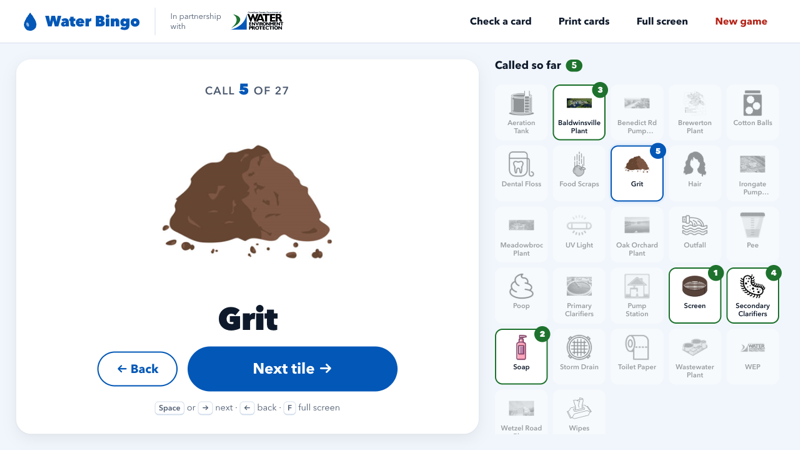
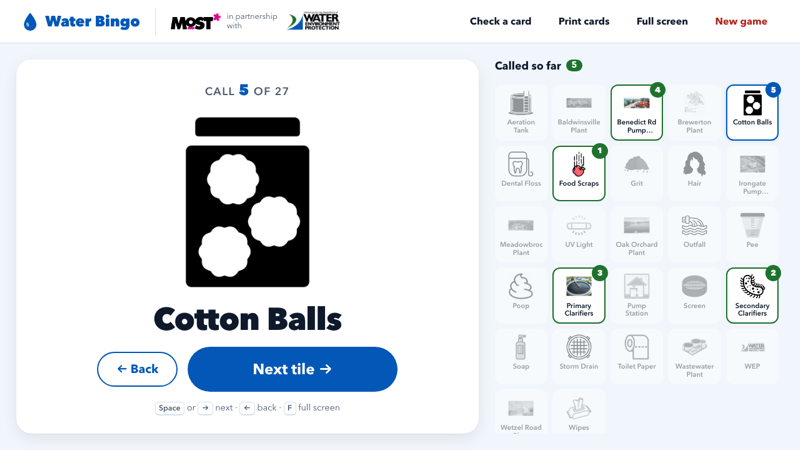
Brand Water Bingo as a MOST program in partnership with WEP
The header now reads "MOST in partnership with WEP", the start screen
shows both logos, and printed cards carry the MOST logo, so the app no
longer reads as a WEP product. The card footer is "Card ID: <id>" with
the ID in MOST pink, and "Five in a row wins!" moves under FREE in the
centre square. The PDF and HTML cards stay in sync.

diff --git a/src/lib/cardsPdf.ts b/src/lib/cardsPdf.ts
@@ -1,4 +1,5 @@
 import { PDFDocument, StandardFonts, rgb, type PDFFont, type PDFImage, type PDFPage } from "pdf-lib";
+import mostLogo from "../assets/brand/most-logo.png";
 import { FREE_INDEX, GRID, type CardCell } from "./cards";
 import { cardRect, paginate, sheetSpec, slotRects, wrapText, type PerSheet, type Rect } from "./sheetLayout";
 
@@ -32,29 +33,29 @@ const hex = (h: string) =>
 const BLUE = hex("#0257b7");
 const BLUE_SOFT = hex("#e3eefb");
 const GREEN = hex("#1e722d");
+const PINK = hex("#df068c");
 const INK = hex("#0e1a2b");
-const MUTED = hex("#4d5b70");
 const CELL_LINE = hex("#9fb3cc");
 const CUT_LINE = hex("#b8c4d4");
 
 const DROP_PATH = "M32 4C32 4 12 28 12 42a20 20 0 0 0 40 0C52 28 32 4 32 4z";
-const SUBTITLE = "ONONDAGA COUNTY DEPARTMENT OF WATER ENVIRONMENT PROTECTION";
-export const FOOTER = "Mark each picture when it's called. Five in a row wins!";
-/** Footer font sizes in `u`; the instructions and the card ID share one line. */
-export const FOOTER_SIZE = { text: 2.1, id: 3 };
+const SUBTITLE = "IN PARTNERSHIP WITH ONONDAGA COUNTY WATER ENVIRONMENT PROTECTION";
+/** Footer, in `u`: card ID left, MOST logo right. */
+export const FOOTER = { idLabel: "Card ID: ", idSize: 3, logoHeight: 3.6, gap: 1.5 };
+/** Caption under FREE in the centre square, in bold at `size` u. */
+export const FREE_CAPTION = { text: "Five in a row wins!", size: 1.7 };
+export const MOST_LOGO_ASPECT = 2081 / 672; // most-logo.png
 
 const defaultLoad = async (url: string) => (await fetch(url)).arrayBuffer();
 
 export async function buildCardsPdf({ cards, perSheet, getTile, loadImage = defaultLoad }: BuildOptions) {
   const doc = await PDFDocument.create();
   doc.setTitle(`Water Bingo cards (${cards.length})`);
+  doc.setAuthor("Museum of Science & Technology (MOST)");
   doc.setSubject("In partnership with Onondaga County Department of Water Environment Protection");
   doc.setCreator("Water Bingo");
 
-  const fonts = {
-    regular: await doc.embedFont(StandardFonts.Helvetica),
-    bold: await doc.embedFont(StandardFonts.HelveticaBold),
-  };
+  const bold = await doc.embedFont(StandardFonts.HelveticaBold);
 
   // Embed each tile image once; every card reuses it.
   const ids = new Set(cards.flatMap((c) => c.cells.filter((x): x is string => x !== null)));
@@ -66,20 +67,23 @@ export async function buildCardsPdf({ cards, perSheet, getTile, loadImage = defa
     }),
   );
 
+  const logo = await doc.embedPng(await loadImage(mostLogo));
+
   const spec = sheetSpec(perSheet);
   const slots = slotRects(perSheet);
   for (const pageCards of paginate(cards, perSheet)) {
     const page = doc.addPage([spec.width, spec.height]);
     drawCutLines(page, perSheet);
-    pageCards.forEach((card, i) => drawCard(page, cardRect(slots[i]!), card, { fonts, images, getTile }));
+    pageCards.forEach((card, i) => drawCard(page, cardRect(slots[i]!), card, { bold, images, logo, getTile }));
   }
 
   return doc.save();
 }
 
 interface DrawContext {
-  fonts: { regular: PDFFont; bold: PDFFont };
+  bold: PDFFont;
   images: Map<string, PDFImage>;
+  logo: PDFImage;
   getTile: (id: string) => PdfTile;
 }
 
@@ -96,7 +100,7 @@ function drawCard(page: PDFPage, box: Rect, card: PdfCard, ctx: DrawContext) {
   const u = box.w / 100;
   const X = (x: number) => box.x + x * u;
   const Y = (y: number) => pageH - (box.y + y * u); // top-down → PDF bottom-up
-  const { regular, bold } = ctx.fonts;
+  const { bold } = ctx;
 
   // Header: drop + title, centred as one group.
   const title = "WATER BINGO";
@@ -128,11 +132,15 @@ function drawCard(page: PDFPage, box: Rect, card: PdfCard, ctx: DrawContext) {
   }
   page.drawRectangle({ x: X(0), y: Y(top + 100), width: 100 * u, height: 100 * u, borderColor: BLUE, borderWidth: 0.7 * u });
 
-  // Footer.
-  page.drawText(FOOTER, { x: X(0), y: Y(118.4), size: FOOTER_SIZE.text * u, font: regular, color: MUTED });
-  const num = `Card ${card.id}`;
-  const numSize = FOOTER_SIZE.id * u;
-  page.drawText(num, { x: X(100) - bold.widthOfTextAtSize(num, numSize), y: Y(118.6), size: numSize, font: bold, color: INK });
+  // Footer, centred on y = 117.5u: "Card ID: <id>" left (ID in pink), MOST logo right.
+  const idSize = FOOTER.idSize;
+  const labelW = bold.widthOfTextAtSize(FOOTER.idLabel, idSize);
+  page.drawText(FOOTER.idLabel, { x: X(0), y: Y(118.6), size: idSize * u, font: bold, color: INK });
+  page.drawText(card.id, { x: X(labelW), y: Y(118.6), size: idSize * u, font: bold, color: PINK });
+
+  const logoH = FOOTER.logoHeight;
+  const logoW = logoH * MOST_LOGO_ASPECT;
+  page.drawImage(ctx.logo, { x: X(100 - logoW), y: Y(117.5 + logoH / 2), width: logoW * u, height: logoH * u });
 }
 
 type Coord = (v: number) => number;
@@ -180,9 +188,12 @@ function drawTile(
 
 function drawFree(page: PDFPage, X: Coord, Y: Coord, u: number, cx: number, cy: number, cell: number, font: PDFFont) {
   page.drawRectangle({ x: X(cx), y: Y(cy + cell), width: cell * u, height: cell * u, color: BLUE_SOFT });
-  const drop = 9 * u;
-  page.drawSvgPath(DROP_PATH, { x: X(cx + cell / 2) - drop / 2, y: Y(cy + 3), scale: drop / 64, color: BLUE });
+  const drop = 7.5 * u;
+  page.drawSvgPath(DROP_PATH, { x: X(cx + cell / 2) - drop / 2, y: Y(cy + 1.8), scale: drop / 64, color: BLUE });
   const size = 3.4 * u;
   const w = font.widthOfTextAtSize("FREE", size);
-  page.drawText("FREE", { x: X(cx + cell / 2) - w / 2, y: Y(cy + cell - 2.4), size, font, color: BLUE });
+  page.drawText("FREE", { x: X(cx + cell / 2) - w / 2, y: Y(cy + 13.4), size, font, color: BLUE });
+  const capSize = FREE_CAPTION.size * u;
+  const capW = font.widthOfTextAtSize(FREE_CAPTION.text, capSize);
+  page.drawText(FREE_CAPTION.text, { x: X(cx + cell / 2) - capW / 2, y: Y(cy + 17.4), size: capSize, font, color: BLUE });
 }

diff --git a/src/lib/cardsPdf.test.ts b/src/lib/cardsPdf.test.ts
@@ -7,7 +7,7 @@ import { describe, expect, it } from "vitest";
 import { TILE_IDS, getTile } from "../data/tiles";
 import { ADJECTIVES, NOUNS, randomCardIds } from "./cardIds";
 import { cardLayout } from "./cards";
-import { FOOTER, FOOTER_SIZE, buildCardsPdf } from "./cardsPdf";
+import { FOOTER, FREE_CAPTION, MOST_LOGO_ASPECT, buildCardsPdf } from "./cardsPdf";
 import { mulberry32 } from "./random";
 import type { PerSheet } from "./sheetLayout";
 
@@ -31,18 +31,17 @@ describe("buildCardsPdf", () => {
     expect(doc.getTitle()).toBe(`Water Bingo cards (${count})`);
   });
 
-  it("fits the widest possible card ID beside the footer text", async () => {
+  it("fits the widest possible card ID beside the MOST logo, and the caption in the FREE square", async () => {
     const doc = await PDFDocument.create();
-    const [regular, bold] = await Promise.all([
-      doc.embedFont(StandardFonts.Helvetica),
-      doc.embedFont(StandardFonts.HelveticaBold),
-    ]);
+    const bold = await doc.embedFont(StandardFonts.HelveticaBold);
     const widest = (list: readonly string[]) =>
       [...list].sort((a, b) => bold.widthOfTextAtSize(b, 1) - bold.widthOfTextAtSize(a, 1));
     const [a1, a2] = widest(ADJECTIVES);
-    const id = `Card ${a1}-${a2}-${widest(NOUNS)[0]}`;
-    // Widths in u (1% of card width); 2u gap between the two, as in the CSS.
-    const used = regular.widthOfTextAtSize(FOOTER, FOOTER_SIZE.text) + 2 + bold.widthOfTextAtSize(id, FOOTER_SIZE.id);
-    expect(used).toBeLessThan(98);
+    const id = `${FOOTER.idLabel}${a1}-${a2}-${widest(NOUNS)[0]}`;
+    // Widths in u (1% of card width): ID, gap, logo — as in the CSS.
+    const used = bold.widthOfTextAtSize(id, FOOTER.idSize) + FOOTER.gap + FOOTER.logoHeight * MOST_LOGO_ASPECT;
+    expect(used).toBeLessThan(96);
+    // A grid cell is 20u with 1.2u padding each side.
+    expect(bold.widthOfTextAtSize(FREE_CAPTION.text, FREE_CAPTION.size)).toBeLessThan(17.6);
   });
 });

diff --git a/src/pages/CallerPage.tsx b/src/pages/CallerPage.tsx
@@ -1,5 +1,6 @@
 import { useEffect, useMemo, useState } from "react";
 import { Link } from "react-router";
+import mostLogo from "../assets/brand/most-logo.png";
 import wepLogo from "../assets/brand/wep-logo.png";
 import CardChecker from "../components/CardChecker";
 import Dialog from "../components/Dialog";
@@ -203,22 +204,20 @@ function StartScreen({ onStart }: { onStart: () => void }) {
         </div>
         <ol className="steps">
           <li>
-            <strong>Print cards.</strong> Each card has a number and its own mix of {CELLS - 1} pictures.
+            <strong>Print cards.</strong> Each card has its own word ID and mix of {CELLS - 1} pictures.
           </li>
           <li>
             <strong>Call tiles.</strong> Press <kbd>Space</kbd> to show the next picture and read its name aloud.
           </li>
           <li>
-            <strong>Check winners.</strong> Five in a row wins — enter their card number to confirm.
+            <strong>Check winners.</strong> Five in a row wins — enter their card ID to confirm.
           </li>
         </ol>
-        <section className="partner-band" aria-label="Partnership">
+        {/* Decorative: the header already names both organisations. */}
+        <div className="partner-band">
+          <img className="partner-band-most" src={mostLogo} alt="" />
           <img src={wepLogo} alt="" />
-          <p>
-            Presented in partnership with <strong>Onondaga County Water Environment Protection (WEP)</strong> — the
-            team that runs the treatment plants and pump stations you’ll see on the tiles.
-          </p>
-        </section>
+        </div>
       </main>
     </div>
   );

diff --git a/src/components/BingoCard.tsx b/src/components/BingoCard.tsx
@@ -1,3 +1,4 @@
+import mostLogo from "../assets/brand/most-logo.png";
 import { FREE_INDEX, isMarked, type CardCell } from "../lib/cards";
 import { getTile } from "../data/tiles";
 import WaterDrop from "./WaterDrop";
@@ -19,7 +20,7 @@ export default function BingoCard({ cardId, cells, called, winning, variant = "p
           <h2>
             <WaterDrop className="bingo-card-drop" /> Water Bingo
           </h2>
-          <p>Onondaga County Department of Water Environment Protection</p>
+          <p>In partnership with Onondaga County Water Environment Protection</p>
         </header>
       )}
       <ol className="bingo-grid">
@@ -38,6 +39,7 @@ export default function BingoCard({ cardId, cells, called, winning, variant = "p
               <li key="free" className={classes}>
                 <WaterDrop className="free-drop" />
                 <span className="bingo-cell-label">FREE</span>
+                {variant === "print" && <span className="bingo-cell-caption">Five in a row wins!</span>}
               </li>
             );
           }
@@ -52,8 +54,10 @@ export default function BingoCard({ cardId, cells, called, winning, variant = "p
       </ol>
       {variant === "print" && (
         <footer className="bingo-card-foot">
-          <span>Mark each picture when it’s called. Five in a row wins!</span>
-          <strong>Card {cardId}</strong>
+          <strong>
+            Card ID: <span className="card-id">{cardId}</span>
+          </strong>
+          <img className="bingo-card-most" src={mostLogo} alt="Museum of Science & Technology (MOST)" />
         </footer>
       )}
     </article>

diff --git a/src/components/SiteHeader.tsx b/src/components/SiteHeader.tsx
@@ -1,5 +1,6 @@
 import type { ReactNode } from "react";
 import { Link } from "react-router";
+import mostLogo from "../assets/brand/most-logo.png";
 import wepLogo from "../assets/brand/wep-logo.png";
 import WaterDrop from "./WaterDrop";
 
@@ -11,7 +12,8 @@ export default function SiteHeader({ children }: { children?: ReactNode }) {
         <span className="brand-name">Water Bingo</span>
       </Link>
       <div className="partner">
-        <span className="partner-label">In partnership with</span>
+        <img className="partner-most" src={mostLogo} alt="Museum of Science & Technology (MOST)" />
+        <span className="partner-label">in partnership with</span>
         <img src={wepLogo} alt="Onondaga County Department of Water Environment Protection" />
       </div>
       {children && <nav className="toolbar">{children}</nav>}

diff --git a/src/pages/cards.css b/src/pages/cards.css
@@ -224,19 +224,31 @@
   font-size: calc(var(--u) * 3.4);
   font-weight: 800;
 }
+.bingo-cell-caption {
+  font-size: calc(var(--u) * 1.7);
+  font-weight: 700;
+  line-height: 1;
+  white-space: nowrap;
+}
+/* Card ID left, MOST logo right. Mirrors cardsPdf.ts. */
 .bingo-card-foot {
   display: flex;
   align-items: center;
   justify-content: space-between;
-  gap: calc(var(--u) * 2);
+  gap: calc(var(--u) * 1.5);
   flex: 1;
-  font-size: calc(var(--u) * 2.1);
-  color: var(--muted);
+}
+.bingo-card-most {
+  height: calc(var(--u) * 3.6);
+  width: auto;
 }
 .bingo-card-foot strong {
   font-size: calc(var(--u) * 3);
   color: var(--ink);
   white-space: nowrap;
+}
+.bingo-card-foot .card-id {
+  color: var(--most-pink);
 }
 
 /* ---------- Paper ----------

diff --git a/src/pages/caller.css b/src/pages/caller.css
@@ -87,24 +87,19 @@
   flex-wrap: wrap;
   align-items: center;
   justify-content: center;
-  gap: 1rem 1.5rem;
+  gap: 1rem 2.5rem;
+  width: 100%;
   max-width: 900px;
   margin-top: 1rem;
-  padding: 1rem 1.5rem;
+  padding: 1.25rem 1.5rem 0;
   border-top: 1px solid var(--line);
-  text-align: left;
 }
 .partner-band img {
   height: 64px;
   width: auto;
 }
-.partner-band p {
-  flex: 1 1 320px;
-  margin: 0;
-  color: var(--muted);
-}
-.partner-band strong {
-  color: var(--wep-green);
+.partner-band .partner-band-most {
+  height: 40px;
 }
 
 /* ---------- Caller ---------- */

diff --git a/index.html b/index.html
@@ -7,7 +7,7 @@
     <meta name="theme-color" content="#0257b7" />
     <meta
       name="description"
-      content="Water Bingo — a caller screen and printable bingo cards about how Onondaga County cleans its water, in partnership with Onondaga County Water Environment Protection (WEP)."
+      content="Water Bingo from the Museum of Science &amp; Technology (MOST): a caller screen and printable bingo cards about how Onondaga County cleans its water, in partnership with Onondaga County Water Environment Protection (WEP)."
     />
     <title>Water Bingo</title>
   </head>

diff --git a/src/index.css b/src/index.css
@@ -1,10 +1,11 @@
-/* WEP brand colours are sampled from the Onondaga County WEP logo. */
+/* WEP brand colours are sampled from the Onondaga County WEP logo, MOST pink from the MOST logo. */
 :root {
   --wep-blue: #0257b7;
   --wep-blue-dark: #01418a;
   --wep-blue-soft: #e3eefb;
   --wep-green: #1e722d;
   --wep-green-soft: #e1f2e4;
+  --most-pink: #df068c;
   --ink: #0e1a2b;
   --muted: #4d5b70;
   --line: #d3deec;
@@ -231,6 +232,9 @@ kbd {
 .partner img {
   height: 44px;
   width: auto;
+}
+.partner .partner-most {
+  height: 26px;
 }
 .toolbar {
   display: flex;

diff --git a/src/pages/CallerPage.test.tsx b/src/pages/CallerPage.test.tsx
@@ -21,6 +21,7 @@ describe("CallerPage", () => {
     expect(screen.getByRole("button", { name: "Start calling" })).toBeInTheDocument();
     expect(screen.getByRole("link", { name: "Print bingo cards" })).toHaveAttribute("href", "/cards");
     expect(screen.getByAltText(/Water Environment Protection/)).toBeInTheDocument();
+    expect(screen.getByAltText(/Museum of Science & Technology \(MOST\)/)).toBeInTheDocument();
   });
 
   it("calls tiles with buttons and keyboard, and steps back", async () => {

diff --git a/src/pages/CardsPage.test.tsx b/src/pages/CardsPage.test.tsx
@@ -25,7 +25,7 @@ describe("CardsPage", () => {
     expect(ids).toHaveLength(3);
     for (const id of ids) {
       expect(isCardId(id ?? "")).toBe(true);
-      expect(screen.getByText(`Card ${id}`)).toBeInTheDocument();
+      expect(screen.getByText(id ?? "")).toHaveClass("card-id");
     }
     expect(new Set(ids).size).toBe(3);
     expect(screen.getByText(/3 cards on 3 letter pages/)).toBeInTheDocument();

diff --git a/README.md b/README.md
@@ -1,12 +1,12 @@
 # Water Bingo
 
-A bingo caller screen and printable bingo cards that teach how Onondaga County cleans its wastewater — from what gets flushed, through pump stations, to the treatment plants. Built in partnership with **Onondaga County Department of Water Environment Protection (WEP)**.
+A bingo caller screen and printable bingo cards that teach how Onondaga County cleans its wastewater — from what gets flushed, through pump stations, to the treatment plants. A program of the **Museum of Science & Technology (MOST)**, built in partnership with **Onondaga County Department of Water Environment Protection (WEP)**.
 
 ## Running an event
 
-1. **Print cards:** open the app, choose **Print bingo cards**, pick a card range (e.g. 1–30) and **1, 2 or 4 cards per page**, then **Download PDF** (clean pages with no browser header, footer or URL, good for a print shop) or **Print**. Print at 100% / "Actual size". Card #N always has the same layout, so you can print 31–60 later with no duplicates.
+1. **Print cards:** open the app, choose **Print bingo cards**, pick how many cards and **1, 2 or 4 cards per page**, then **Download PDF** (clean pages with no browser header, footer or URL, good for a print shop) or **Print**. Print at 100% / "Actual size". Each card gets a random word ID (e.g. `bubbly-misty-otter`) and the same ID always has the same layout, so leftover cards from earlier events still check correctly and new print runs won’t duplicate them.
 2. **Call:** choose **Start calling**. Press <kbd>Space</kbd>/<kbd>→</kbd> (or a presentation clicker) for the next tile, <kbd>←</kbd> to go back, <kbd>F</kbd> for full screen. The right-hand board shows everything called so far.
-3. **Check a winner:** choose **Check a card** and type their card number. The app marks the called squares and confirms any winning line (the centre is FREE).
+3. **Check a winner:** choose **Check a card** and type their card ID (the first few letters of each word are enough). The app marks the called squares and confirms any winning line (the centre is FREE).
 
 The game saves in the browser, so a refresh or accidental tab close keeps your place. **New game** clears it.
 
